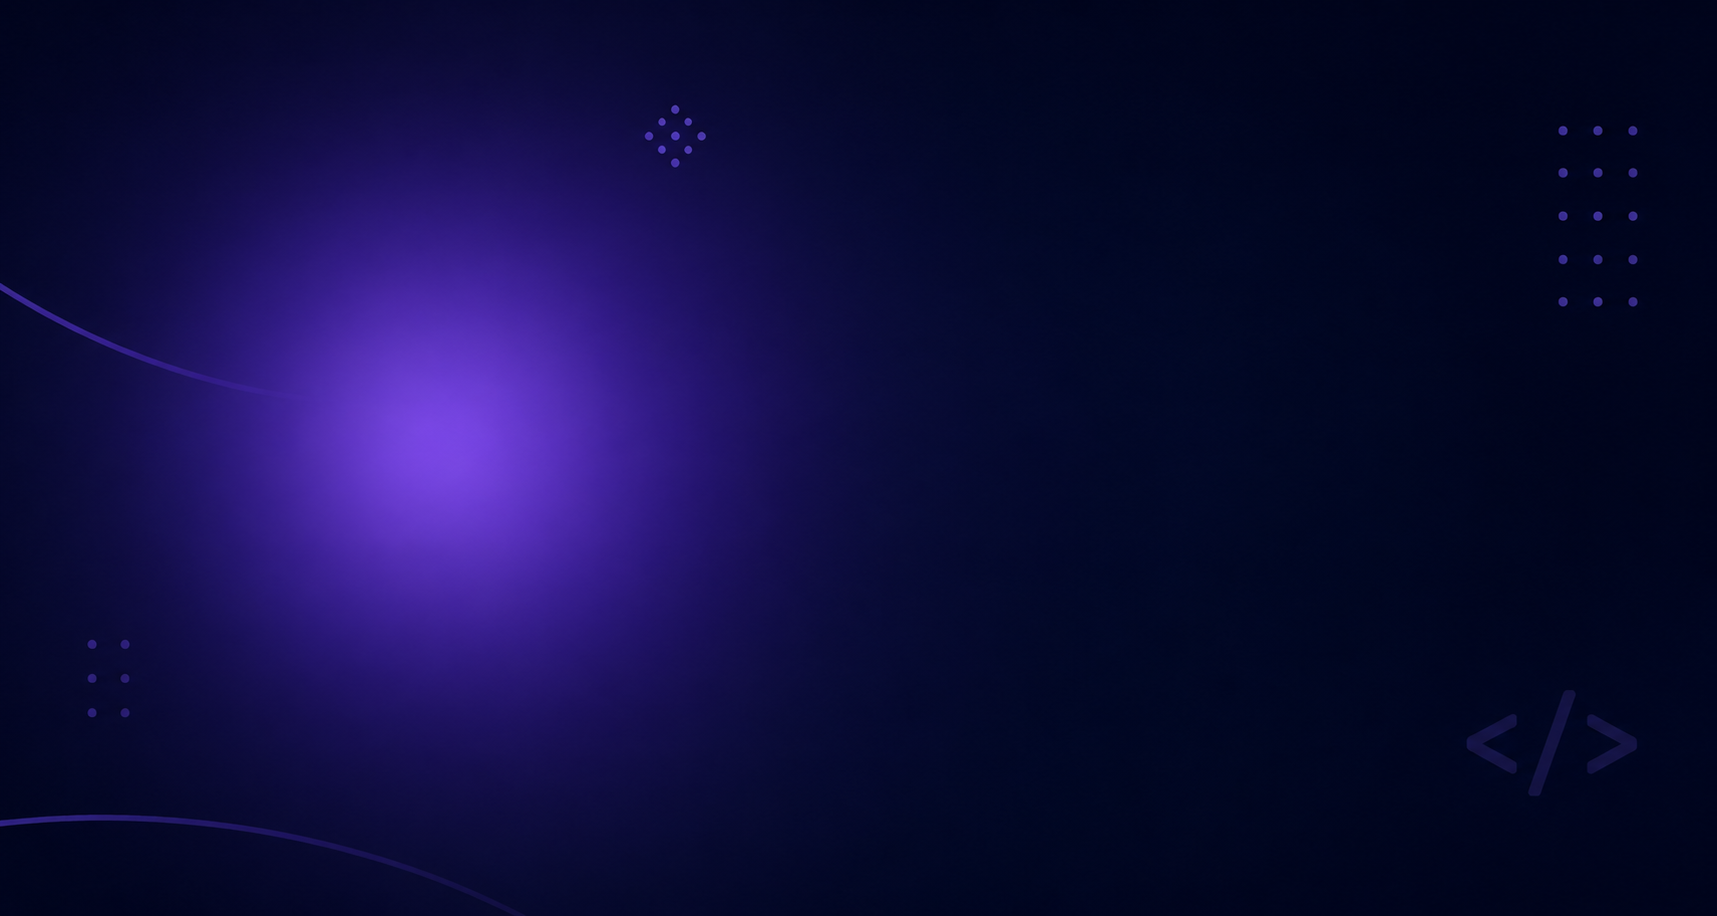
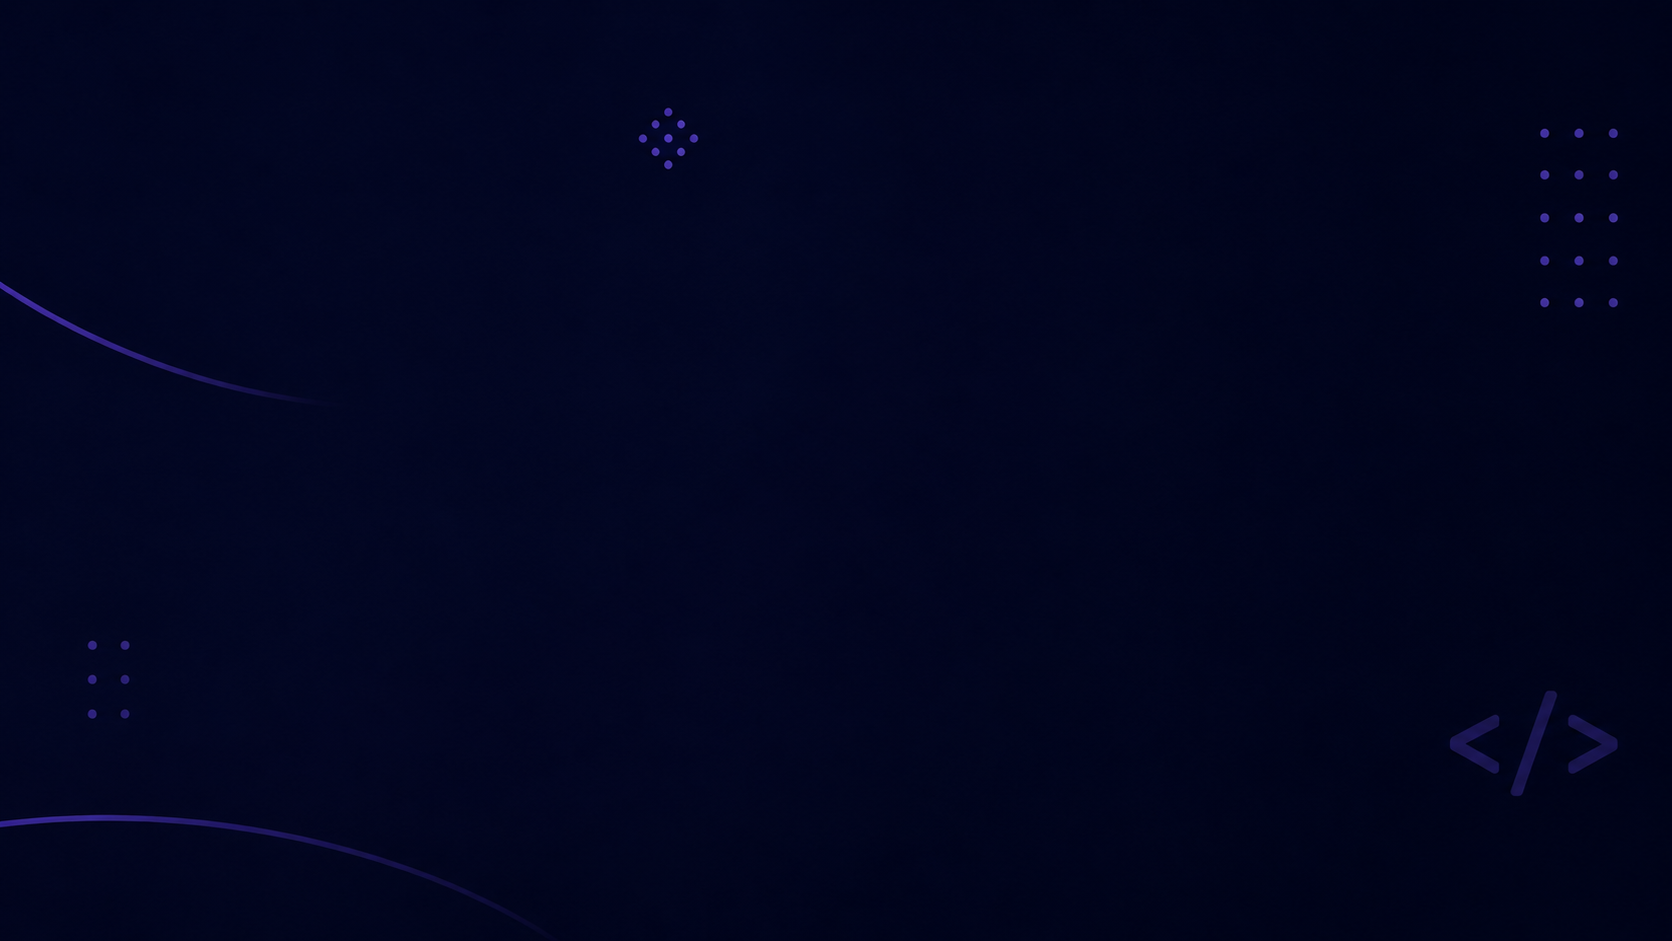
fix: corrige animação do texto no mobile

diff --git a/assets/css/style.css b/assets/css/style.css
@@ -31,7 +31,7 @@ header {
     font-weight: 700;
 }
 
-nav{
+nav {
     display: none;
 }
 
@@ -61,18 +61,36 @@ nav{
 
 /*----------hero----------*/
 .hero {
-    background: radial-gradient(circle at center 27%, rgba(157, 105, 211, 0.8) 0%, #1b1040 25%, #050816 70%);
+    background-image: url("backgroundHero.png");
+    background-position: right bottom;
+    background-size: cover;
+    background-repeat: no-repeat;
     display: flex;
     flex-direction: column;
     justify-content: center;
     align-items: center;
     padding: 20px;
+    position: relative;
+}
+
+#particles-js {
+    position: absolute;
+    width: 100%;
+    height: 100%;
+    top: 0;
+    left: 0;
+    z-index: 0;
 }
 
 .img-profile-container img {
     height: 150px;
     border-radius: 360px;
     box-shadow: 0 0 30px rgba(157, 105, 211, 0.3);
+}
+
+.img-profile-container {
+    position: relative;
+    z-index: 1;
 }
 
 .hero .name {
@@ -85,6 +103,8 @@ nav{
 }
 
 .hero-texts {
+    position: relative;
+    z-index: 1;
     color: #e6e4e4;
     display: flex;
     flex-direction: column;
@@ -94,24 +114,28 @@ nav{
     gap: 10px;
 }
 
+.typing-container {
+    min-height: 24px;
+}
+
+
 .hero-slogan {
     font-size: 15px;
     font-style: italic;
     font-weight: 400;
     display: flex;
-    flex-wrap: wrap;
+    flex-wrap:wrap;
     justify-content: center;
     align-items: center;
     gap: 4px;
 }
 
 #msg {
-   color: var(--roxo);
+    color: var(--roxo);
     border-right: 1px solid rgb(219, 214, 214);
     white-space: nowrap;
     overflow: hidden;
     animation: mark 0.7s step-end infinite;
-    display: inline-block;
 }
 
 .bar {
@@ -129,7 +153,7 @@ nav{
 /*--------------ANIMATIONS KeyFrames--------------*/
 
 @keyframes mark {
-    50%{
+    50% {
         border-right-color: transparent;
     }
 }

diff --git a/script.js b/script.js
@@ -24,3 +24,28 @@
     }
   }
   tick();
+
+
+
+  particlesJS("particles-js", {
+    particles: {
+        number: { value: 60 },
+        color: { value: "#9D69D3" },
+        opacity: { value: 0.4 },
+        size: { value: 3 },
+        move: {
+            enable: true,
+            speed: 1.5
+        },
+        line_linked: {
+            enable: true,
+            color: "#9D69D3",
+            opacity: 0.2
+        }
+    },
+    interactivity: {
+        events: {
+            onhover: { enable: true, mode: "repulse" }
+        }
+    }
+});

diff --git a/index.html b/index.html
@@ -34,6 +34,7 @@
 
     <main>
         <section class="hero">
+            <div id="particles-js"></div>
             <div class="img-profile-container">
                 <img src="assets/images/hero/profile.png" alt="Foto de perfil de Pedro Heinrich">
             </div>
@@ -42,9 +43,15 @@
                     <h2>Pedro</h2>
                     <h2 class="purple">Heinrich</h2>
                 </div>
-                <p class="hero-slogan">
-                    Construindo interfaces modernas como <span id="msg">Front-End Developer</span>
-                </p>
+                <div class="container-msg">
+                    <p class="hero-slogan">
+                        Construindo interfaces modernas como
+                    </p>
+
+                    <div class="typing-container">
+                        <span id="msg">Front-End Developer</span>
+                    </div>
+                </div>
                 <div class="bar"></div>
                 <p class="hero-desc">Desenvolvedor Front-end apaixonado por tecnologia,
                     design e criar soluções que fazem a diferença.
@@ -54,7 +61,7 @@
     </main>
 
 
-
+    <script src="https://cdn.jsdelivr.net/npm/particles.js@2.0.0/particles.min.js"></script>
     <script src="script.js"></script>
 </body>
 

diff --git a/assets/css/media.css b/assets/css/media.css
@@ -2,7 +2,6 @@
 
     /*----------HEADER----------*/
 
-
     header {
         display: flex;
         justify-content: space-between;
@@ -74,6 +73,16 @@
         font-style: italic;
         font-weight: 400;
     }
+
+    .container-msg{
+        display: flex; 
+    }
+
+    .typing-container #msg{
+        margin-left: 6px;
+    }
+
+    
 
     .hero-desc {
         font-size: 12px;